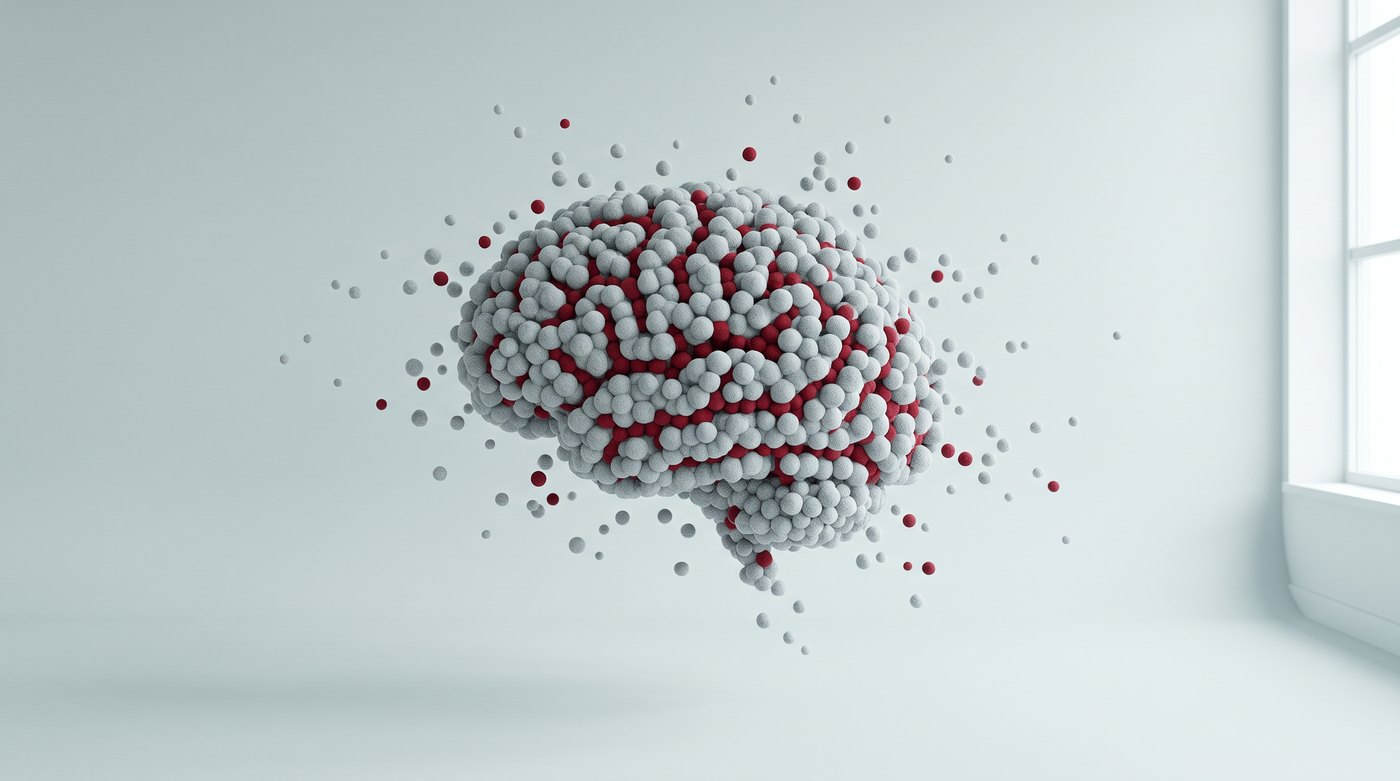
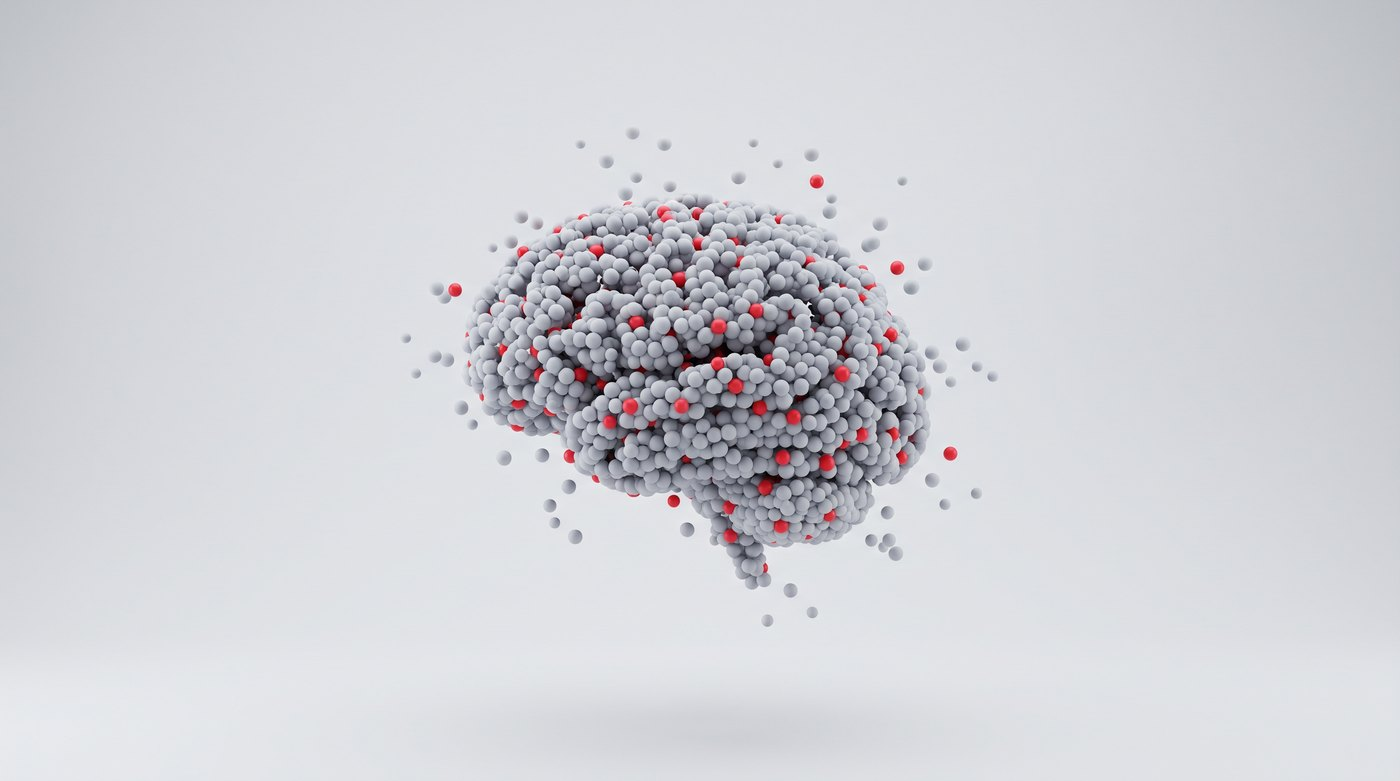
Brain v2: no window, centred data cloud; right-hand labels pulled inward

diff --git a/index.html b/index.html
@@ -204,10 +204,10 @@
           <li style="--x:5%;  --y:38%; --dir:1">your project files</li>
           <li style="--x:7%;  --y:60%; --dir:1">your best practices</li>
           <li style="--x:9%;  --y:82%; --dir:1">your brand voice</li>
-          <li style="--x:6%;  --y:14%; --dir:-1">your skill files</li>
-          <li style="--x:5%;  --y:36%; --dir:-1">your decisions</li>
-          <li style="--x:7%;  --y:58%; --dir:-1">your clients</li>
-          <li style="--x:9%;  --y:80%; --dir:-1">your workflows</li>
+          <li style="--x:13%; --y:14%; --dir:-1">your skill files</li>
+          <li style="--x:12%; --y:36%; --dir:-1">your decisions</li>
+          <li style="--x:14%; --y:58%; --dir:-1">your clients</li>
+          <li style="--x:16%; --y:80%; --dir:-1">your workflows</li>
         </ul>
       </figure>
     </div>
